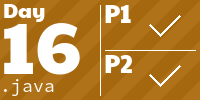
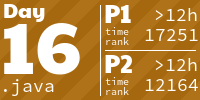
2024 day 16 wip

diff --git a/src/main/java/fr/home/mikedev/aoc2024/Main16.java b/src/main/java/fr/home/mikedev/aoc2024/Main16.java
@@ -1,12 +1,27 @@
 package fr.home.mikedev.aoc2024;
 
 import java.io.BufferedReader;
+import java.util.HashMap;
+import java.util.Map;
 
 import fr.home.mikedev.common.MainDay;
+import fr.home.mikedev.common.MatrixUtils;
+import fr.home.mikedev.common.Pair;
 
 public class Main16 extends MainDay 
 {
-
+	int matrixSize = 15;
+	char[][] puzzleMatrix = new char[matrixSize][matrixSize];
+	Pair<Integer> startPoint;
+	Pair<Integer> endPoint;
+	Pair<Integer> current;
+	int cntBeforeBack;
+	int moveCount;
+	Map<Pair<Integer>, String> walls;
+	Map<Pair<Integer>, String> paths;
+	Map<Pair<Integer>, String> visited;
+	Map<Integer, Pair<Integer>> path;
+	
 	public Main16(String title, String year) {super(title, year, "16");}
 	
 	public void retrieveData()
@@ -14,26 +29,124 @@ public class Main16 extends MainDay
 		String line = null;	
 		try(BufferedReader reader = this.getReader())
 		{
+			int l = 0;
             while((line = reader.readLine()) != null)
             {
-                log(line);
+                for (int c = 0; c < line.length(); c++)
+                	if (line.charAt(c) == '#') walls.put(Pair.<Integer>builder().v1(l).v2(c).build(), "#");
+                	else if (line.charAt(c) == '.') paths.put(Pair.<Integer>builder().v1(l).v2(c).build(), ".");
+                	else if (line.charAt(c) == 'S') startPoint = Pair.<Integer>builder().v1(l).v2(c).build();
+                	else if (line.charAt(c) == 'E') endPoint = Pair.<Integer>builder().v1(l).v2(c).build();
+                l++;
             }
+            current = startPoint.clone();
+            current.setO(">");
+            rebuildMatrix();
 		}
 		catch (Exception ex)
 		{
 			log("retrieveData() : Unable to retrieve data from file");
+			ex.printStackTrace();
 		}
 	}
 	
 	public void doPart1()
 	{
+		walls = new HashMap<Pair<Integer>, String>();
+		paths = new HashMap<Pair<Integer>, String>();
+		visited = new HashMap<Pair<Integer>, String>();
 		retrieveData();
-		displayResultPart1(0);
+		log(MatrixUtils.matrixToString(puzzleMatrix));
+		
+		
+		path = new HashMap<Integer, Pair<Integer>>();
+		
+		log(startPoint);
+		log(endPoint);
+		log(current);
+
+		cntBeforeBack = 0;
+		Pair<Integer> init = current.clone();
+		init.setO(">");
+		path.put(Integer.valueOf(moveCount++), init);
+		while (current.getV1() != endPoint.getV1() || current.getV2() != endPoint.getV2())
+		{
+			move();
+			rebuildMatrix();
+			log(MatrixUtils.matrixToString(puzzleMatrix));
+		}
+		
+		log (path);
+		
+		String dir = "";
+		int turn = 0;
+		for (int i  = 0; i < path.size(); i++)
+		{
+			Pair<Integer> p = path.get(Integer.valueOf(i));
+			if (!p.getO().equals(dir)) turn++;
+		}
+		
+		log(turn);
+		log(path.size());
+		
+		displayResultPart1(turn*1000 + path.size());
 	}
 	
 	public void doPart2()
 	{
 		//retrieveData();
 		displayResultPart2(0);
+	}
+	
+	void move()
+	{
+		if (current.getO().equals("^")) move(Pair.<Integer>builder().v1(current.getV1()-1).v2(current.getV2()).build());
+		else if (current.getO().equals("v")) move(Pair.<Integer>builder().v1(current.getV1()+1).v2(current.getV2()).build());
+		else if (current.getO().equals(">")) move(Pair.<Integer>builder().v1(current.getV1()).v2(current.getV2()+1).build());
+		else if (current.getO().equals("<")) move(Pair.<Integer>builder().v1(current.getV1()).v2(current.getV2()-1).build());
+	}
+	
+	void move(Pair<Integer> nextPoint)
+	{
+		if (walls.get(nextPoint) == null && visited.get(nextPoint) == null)
+		{
+			current.setV1(nextPoint.getV1());
+			current.setV2(nextPoint.getV2());
+			visited.put(current.clone(), "");
+			Pair<Integer> p;
+			if ((p = path.get(moveCount)) == null) p = current.clone();
+			p.setO(current.getO());
+			path.put(Integer.valueOf(moveCount++), p);
+		}
+		else turn();
+	}
+	
+	void turn()
+	{
+		if (current.getO().equals("^")) current.setO(">");
+		else if (current.getO().equals("v")) current.setO("<");
+		else if (current.getO().equals(">")) current.setO("v");
+		else if (current.getO().equals("<")) current.setO("^");
+		String dir = current.getO(); 
+		cntBeforeBack++;
+		if (cntBeforeBack > 3)
+		{
+			cntBeforeBack = 0;
+			current = path.get(--moveCount);
+			current.setO(dir);
+		}
+	}
+	
+	void rebuildMatrix()
+	{
+	    for (int i = 0 ; i < matrixSize; i++)
+	        for (int j = 0; j < matrixSize; j++)
+	            puzzleMatrix[i][j] = 'X';
+	    for (Pair<Integer> w : walls.keySet()) puzzleMatrix[w.getV1()][w.getV2()] = '#';
+	    for (Pair<Integer> b : paths.keySet()) puzzleMatrix[b.getV1()][b.getV2()] = '.';
+	    
+	    puzzleMatrix[startPoint.getV1()][startPoint.getV2()] = 'S';
+	    puzzleMatrix[endPoint.getV1()][endPoint.getV2()] = 'E';
+	    puzzleMatrix[current.getV1()][current.getV2()] = current.getO().charAt(0);
 	}
 }

diff --git a/src/main/java/fr/home/mikedev/aoc2024/MainAoc2024.java b/src/main/java/fr/home/mikedev/aoc2024/MainAoc2024.java
@@ -39,13 +39,13 @@ public class MainAoc2024
 		m12.doPartAll();
 		Main13 m13 = new Main13("Claw Contraption", "2024");
 		m13.doPartAll();
-		Main14 m14 = new Main14("", "2024");
-		m14.doPartAll();*/
-		Main15 m15 = new Main15("", "2024");
-		m15.doPartAll();
-		/*Main16 m16 = new Main16("", "2024");
+		Main14 m14 = new Main14("Restroom Redoubt", "2024");
+		m14.doPartAll();
+		Main15 m15 = new Main15("Warehouse Woes", "2024");
+		m15.doPartAll();*/
+		Main16 m16 = new Main16("Reindeer Maze", "2024");
 		m16.doPartAll();
-		Main17 m17 = new Main17("", "2024");
+		/*Main17 m17 = new Main17("", "2024");
 		m17.doPartAll();
 		Main18 m18 = new Main18("", "2024");
 		m18.doPartAll();

diff --git a/src/main/java/fr/home/mikedev/common/Node.java b/src/main/java/fr/home/mikedev/common/Node.java
@@ -1,0 +1,24 @@
+package fr.home.mikedev.common;
+
+import java.util.HashMap;
+import java.util.LinkedList;
+import java.util.List;
+import java.util.Map;
+
+import lombok.Builder;
+import lombok.Data;
+
+@Data
+@Builder
+public class Node 
+{
+    private Pair<Integer> coord;
+    @Builder.Default private List<Node> shortestPath = new LinkedList<>();
+    @Builder.Default private Integer distance = Integer.MAX_VALUE;
+    @Builder.Default Map<Node, Integer> adjacentNodes = new HashMap<>();
+
+    public void addDestination(Node destination, int distance) 
+    {
+        adjacentNodes.put(destination, distance);
+    }
+}

diff --git a/src/main/java/fr/home/mikedev/common/Pair.java b/src/main/java/fr/home/mikedev/common/Pair.java
@@ -2,12 +2,22 @@ package fr.home.mikedev.common;
 
 import lombok.Builder;
 import lombok.Data;
+import lombok.EqualsAndHashCode;
 
 @Data
 @Builder
+@EqualsAndHashCode(exclude = {"o"})
 public class Pair<T>
 {
 	T v1;
 	T v2;
 	String o;
+	
+	@Override
+	public Pair<T> clone() 
+	{
+		return Pair.<T>builder().v1(v1).v2(v2).build();
+	}
+	
+	
 }

diff --git a/README.md b/README.md
@@ -4,7 +4,7 @@
 
 <!-- AOC TILES BEGIN -->
 <h1 align="center">
-  2024 - 29 ⭐ - Java
+  2024 - 31 ⭐ - Java
 </h1>
 <a href="src/main/java/fr/home/mikedev/aoc2024/Main01.java">
   <img src=".aoc_tiles/tiles/2024/01.png" width="161px">
@@ -50,6 +50,9 @@
 </a>
 <a href="src/main/java/fr/home/mikedev/aoc2024/Main15.java">
   <img src=".aoc_tiles/tiles/2024/15.png" width="161px">
+</a>
+<a href="src/main/java/fr/home/mikedev/aoc2024/Main16.java">
+  <img src=".aoc_tiles/tiles/2024/16.png" width="161px">
 </a>
 <h1 align="center">
   2023 - 6 ⭐ - Java
